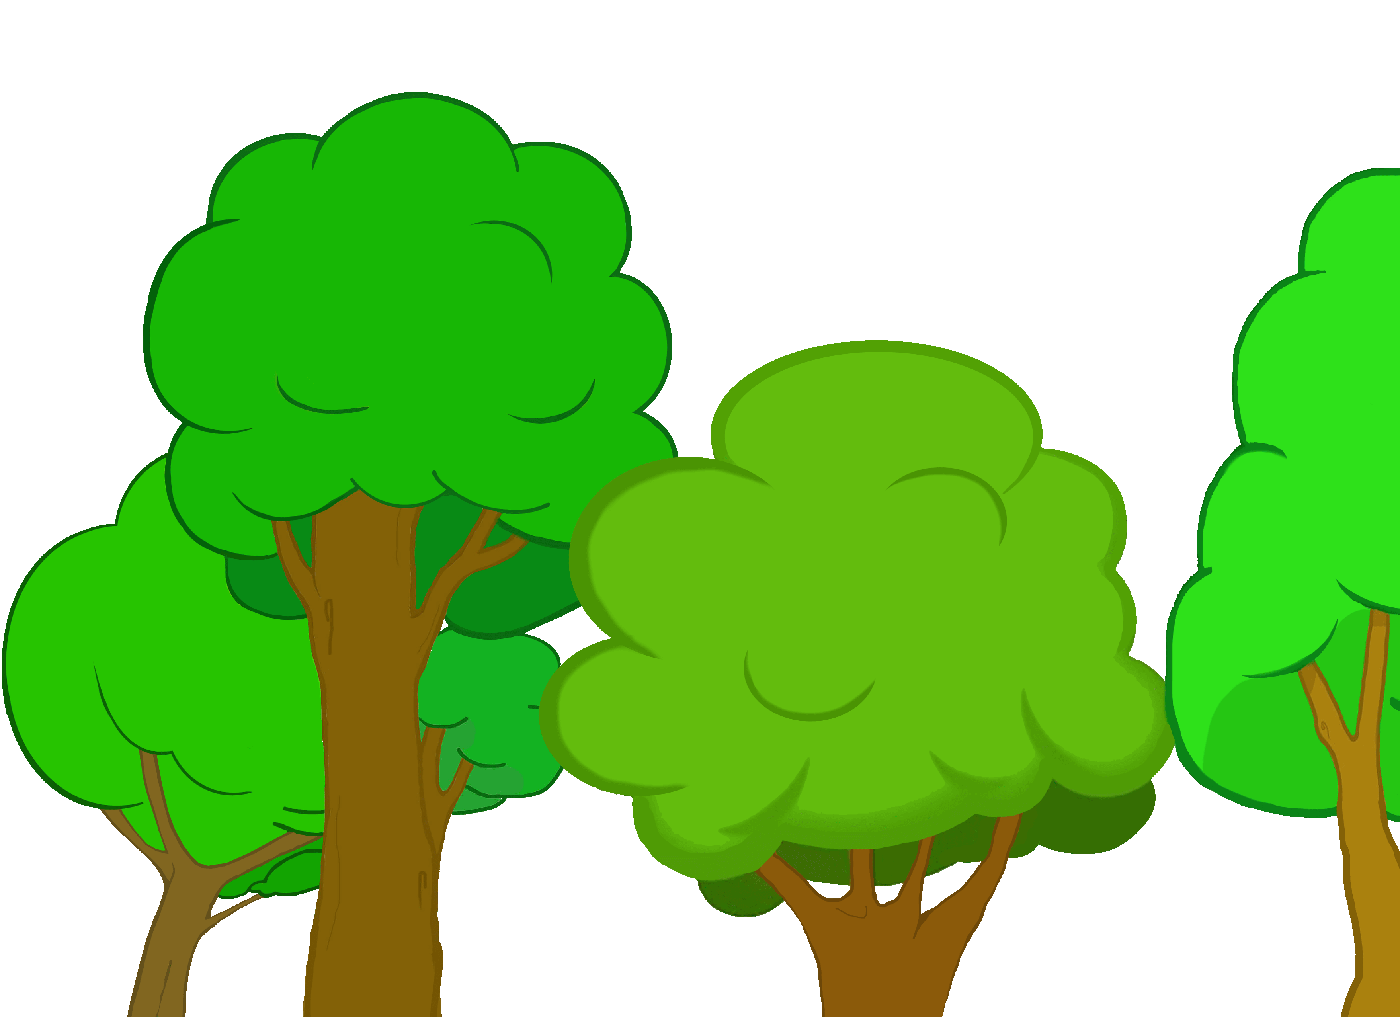
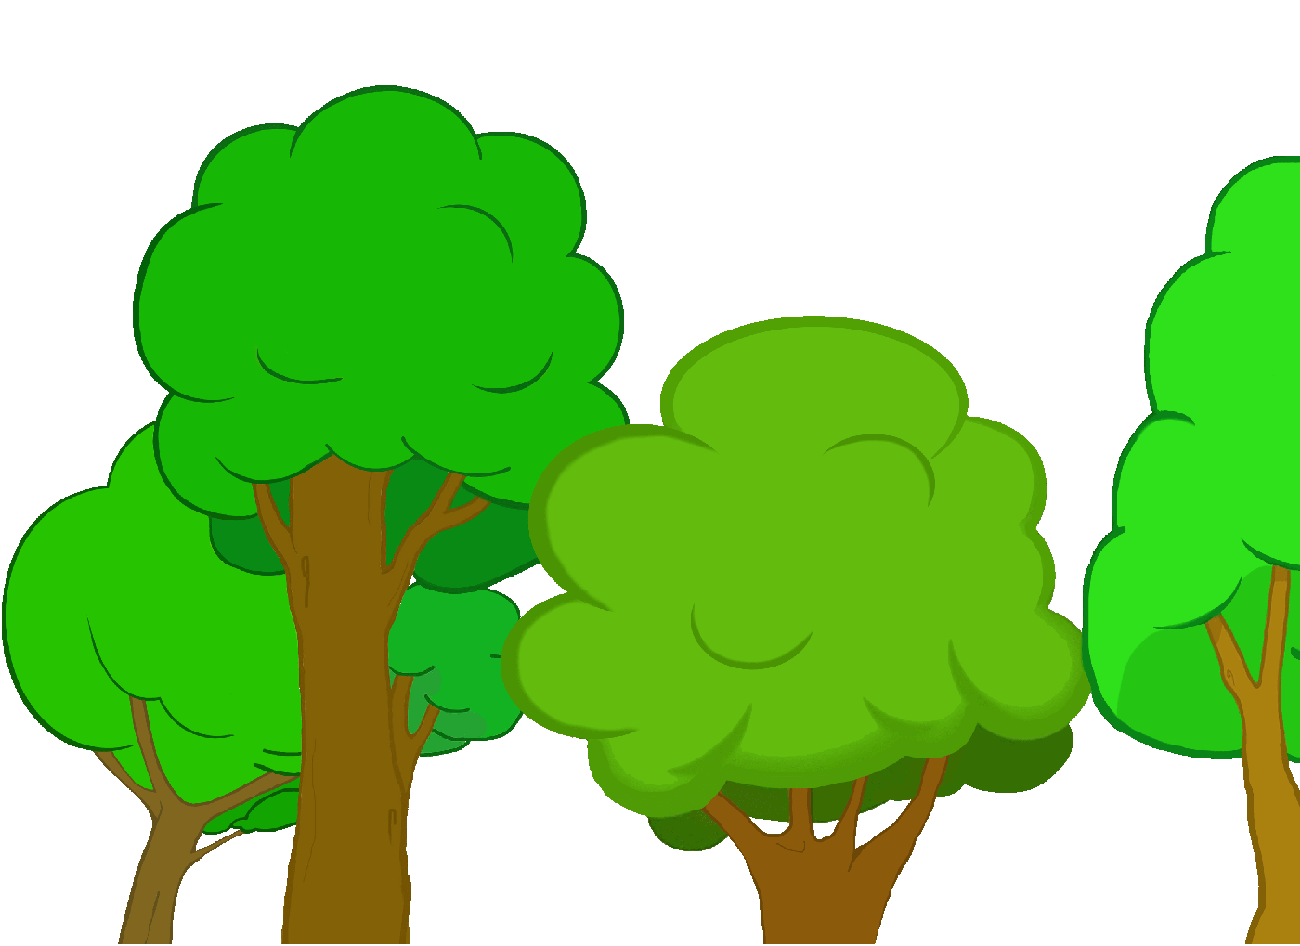
modif taille img background + texte accueil et laser game

diff --git a/index.html b/index.html
@@ -309,7 +309,7 @@
                                             <i class="fa fa-newspaper-o" aria-hidden="true"></i> ACTUALITES
                                         </h2>
                                         <p id="actu-news" class="upperCase infoactu" data-animated-in="animated fadeInRight" data-animated-out="animated fadeOutRight" data-animated-time="4">
-                                            Ouverture du parc le samedi 31 mars,<br> <br>venez découvrir les nouveautés 2018<br><br><br><br> infos et horaires : <b>04.66.25.89.77</b>
+                                            Ouverture du parc le samedi 31 mars<br> <br>venez découvrir les nouveautés 2018<br><br><br><br> infos et horaires : <b>04.66.25.89.77</b>
                                         </p>
                                     </div>
                                     <div class="img-actu center_bg text-center col-md-6" data-animated-in="animated fadeInLeft" data-animated-out="animated fadeOutLeft" data-animated-time="0">
@@ -326,7 +326,7 @@
             <div data-id="!formules" class="contentWrapper autoPosition m-Scrollbar backGround">
                 <div class="top_space"></div>
                 <!-- Content display with Background image -->
-                <div class="bg_forest fullWidth parallax  topHeaderBg top_bot_pad" data-src="assets/foret/bg_forest_1.png" data-src-small="assets/foret/bg_forest_1.png">
+                <div class="bg_forest container-fluid removePadding fullWidth fullResponse parallax" data-src="assets/foret/bg_forest_1.png" data-src-small="assets/foret/bg_forest_1.png">
                     <div class="container">
                         <div class="row-fluid">
                             <div class="col-md-12 textAlignCenter" data-animated-time="5" data-animated-in="animated flipInX" data-animated-innerContent="yes">
@@ -490,7 +490,7 @@
             <div data-id="!parcours" class="contentWrapper autoPosition m-Scrollbar backGround">
                 <div class="top_space"></div>
                 <!-- Content display with Background image -->
-                <div class="bg_forest container-fluid  backGround parallax fullWidth " data-src="assets/foret/bg_forest_2.png" data-src-small="assets/foret/bg_forest_2.png">
+                <div class="bg_forest container-fluid removePadding fullWidth fullResponse parallax" data-src="assets/foret/bg_forest_2.png" data-src-small="assets/foret/bg_forest_2.png">
                     <div class="container" data-animated-in="animated fadeInUp" data-animated-innerContent="yes">
                         <div class="row-fluid">
                             <div class="grp-titres span12 textAlignCenter relativePos">
@@ -532,7 +532,7 @@
                             <h2 class="remove_bottomPadding "><img id="lasergame-icon" src="assets/laser.png">LASER GAME</h2>
 
                             <div class="grp-titres">
-                                <h3>Une zone de 3000 m2 de forêt pour adultes et enfants à partir de 8 ans</h3>
+                                <h3>En équipe, chaque participant est muni d'un fusil et d'un casque avec un bandeau récepteur de tirs</h3>
                             </div>
                         </div>
                         <div class="box-sec flyer_laser box-pages" data-animated-time="5" data-animated-in="animated flipInX" data-animated-innerContent="yes"> <img src="assets/formules/img/FORMULES2017/flyer-laser.png" class="laser box-pages" alt="" data-toggle="modal" data-target=".bs-example-modal-lgimg22"></div>

diff --git a/css/moncss_forest/mycss.css b/css/moncss_forest/mycss.css
@@ -699,14 +699,9 @@
         text-align: center;
     }
 
-    .parcours img {
-        height: 50px;
-        width: 150px;
-    }
-
     .parcour_imgForest {
-        height: 520px !important;
-        width: 850px !important;
+        height: 600px;
+        width: 870px;
     }
 
     .flyer_laser {
@@ -752,7 +747,7 @@
 
     .options a {
         color: #FF6620 !important;
-        font-size: 20px;
+        font-size: 25px;
         font-weight: bold;
         font-family: "comic";
     }
@@ -814,7 +809,7 @@
     }
 
     .options .reservation a {
-        text-shadow: 1px 1px 2px #000;
+        text-shadow: 2px 1px 2px #fff;
     }
 
     .formules-anniv {
